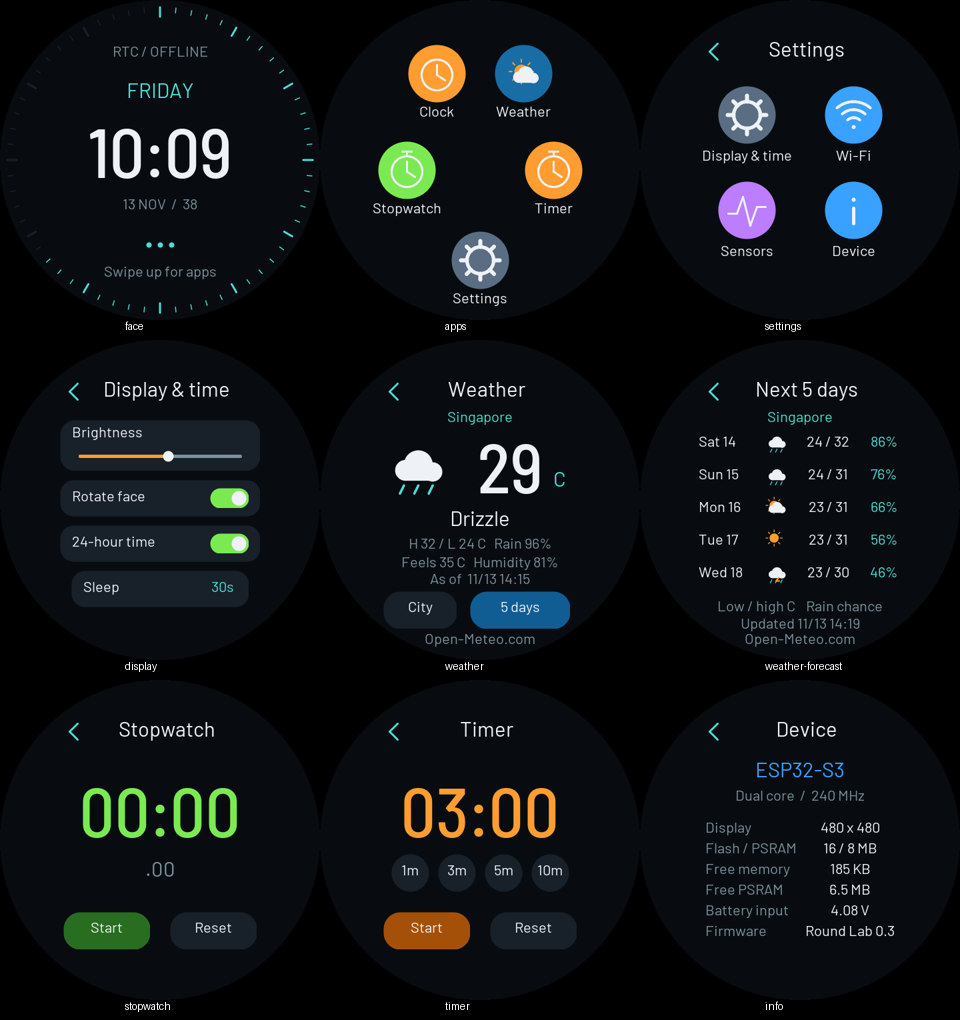
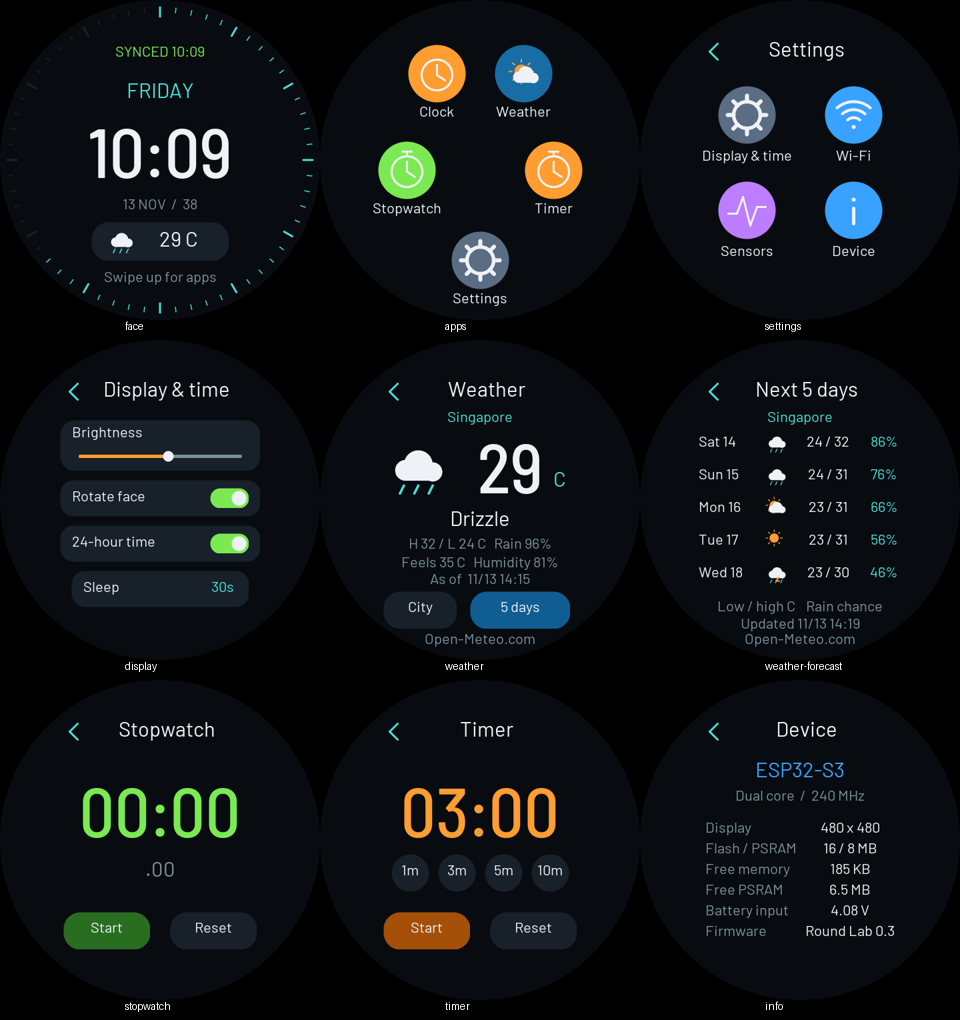
Show current weather on the clock face with tap-to-open

Changed region(s): [[0.0938, 0.2127, 0.25, 0.2735], [0.125, 0.0304, 0.2188, 0.0608]]

diff --git a/examples/watch-shell/preview.cpp b/examples/watch-shell/preview.cpp
@@ -20,18 +20,22 @@ int main(int argc, char **argv) {
   state.ax = .1f;
   state.ay = -.3f;
   state.az = .95f;
-  state.ntpSyncedAt = 1794550755;
+  state.ntpSyncedAt = 1794535755;
+  state.weather.valid = true;
+  state.weather.temperature = 29;
+  state.weather.code = 53;
   std::vector<uint16_t> pixels(480 * 480);
-  const char *names[] = {"face",          "apps",
-                         "controls",      "settings",
-                         "stopwatch",     "timer",
-                         "sensors",       "info",
-                         "wifi",          "wifi-networks",
-                         "wifi-keyboard", "wifi-symbols",
-                         "weather",       "weather-forecast",
+  const char *names[] = {"face",           "apps",
+                         "controls",       "settings",
+                         "stopwatch",      "timer",
+                         "sensors",        "info",
+                         "wifi",           "wifi-networks",
+                         "wifi-keyboard",  "wifi-symbols",
+                         "weather",        "weather-forecast",
                          "weather-cities", "display"};
   for (int i = 0; i < 16; i++) {
     state.page = i < 9 ? Page(i) : Page::Wifi;
+    state.connected = i == 0;
     if (i == 9) {
       state.wifiView = WifiView::Networks;
       state.networks = {{"Home Wi-Fi", -42, false, true},

diff --git a/examples/watch-shell/WatchShell/WatchUi.h b/examples/watch-shell/WatchShell/WatchUi.h
@@ -289,9 +289,17 @@ inline void draw(uint16_t *p, const WatchState &s) {
     else
       std::strcpy(text, "Sync time in Wi-Fi");
     label(p, text, 240, 296, smallFont, dim);
-    for (int i = -1; i <= 1; i++)
-      circle(p, 240 + i * 17, 367, 4, cyan);
-    label(p, "Swipe up for apps", 240, 397, smallFont, dim);
+    rounded(p, 137, 333, 206, 58, 26, card);
+    if (s.weather.valid) {
+      weatherIcon(p, s.weather.code, s.weather.isDay, 182, 360, .55f);
+      std::snprintf(text, sizeof(text), "%.0f C", s.weather.temperature);
+      label(p, text, 268, 345, mediumFont, fg);
+    } else
+      label(p, s.weatherLoading ? "Loading weather..." : "Weather --", 240, 351, smallFont, dim);
+    label(p,
+          s.weather.valid && (!s.connected || s.weather.error[0]) ? "Cached weather"
+                                                                  : "Swipe up for apps",
+          240, 405, smallFont, dim);
     return;
   }
   if (s.page == Page::Apps) {

diff --git a/examples/watch-shell/README.md b/examples/watch-shell/README.md
@@ -10,10 +10,11 @@
 
 | 位置 / 手势 | 功能 |
 | --- | --- |
-| 表盘上滑或点击 | 打开应用网格 |
+| 表盘上滑 / 点击时间 | 打开应用网格 |
 | 表盘下滑 | 快捷设置：Wi-Fi、表盘旋转、亮度、熄屏 |
 | 表盘左滑 | 天气 |
 | 点击表盘顶部校时状态 | 联网重新校时；离线时打开 Wi-Fi |
+| 点击表盘下方天气卡片 | 打开当前天气 |
 | 应用内右滑 / 左上角返回 | 返回上一级；Sensors / Wi-Fi / Device 返回 Settings |
 | 应用网格下滑或右滑 | 返回表盘 |
 | 长按约 0.7 秒 | 返回表盘 |
@@ -23,7 +24,7 @@
 
 ## 应用与设置
 
-- **Clock**：时间、日期、星期、秒刻度。时区为 UTC+8；RTC 存 UTC。每次连接 Wi-Fi 后发起 NTP 校时，在线时每小时同步，成功后写入 RTC。表盘顶部显示 `SYNCING TIME` / `SYNCED HH:MM` / `RTC / OFFLINE`；点击该区域可重新校时。
+- **Clock**：时间、日期、星期、秒刻度，以及当前温度和天气图标。点击下方天气卡片打开 Weather；数据尚未获取时显示占位，离线或更新失败时标注 Cached weather。时区为 UTC+8；RTC 存 UTC。每次连接 Wi-Fi 后发起 NTP 校时，在线时每小时同步，成功后写入 RTC。表盘顶部显示 `SYNCING TIME` / `SYNCED HH:MM` / `RTC / OFFLINE`；点击该区域可重新校时。
 - **Stopwatch**：开始、暂停、继续、复位。切换页面或熄屏后继续计时。
 - **Timer**：1 / 3 / 5 / 10 分钟预设，暂停、继续、复位。到时打开计时器页面并短鸣提醒。
 - **Settings → Sensors**：加速度、角速度和倾斜指示。数值是板卡坐标系。
